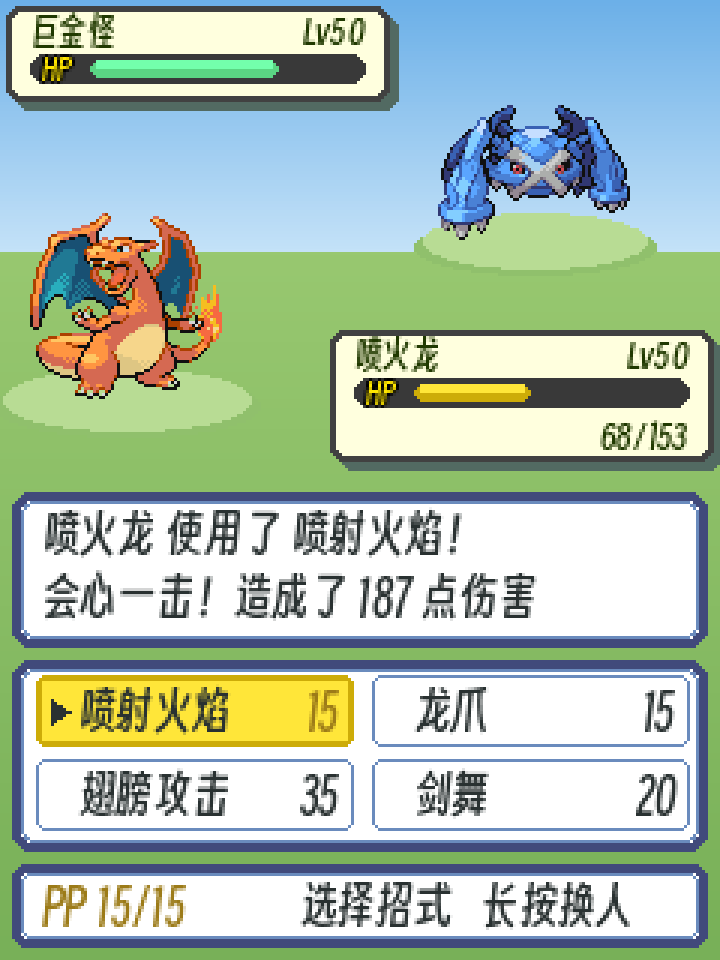
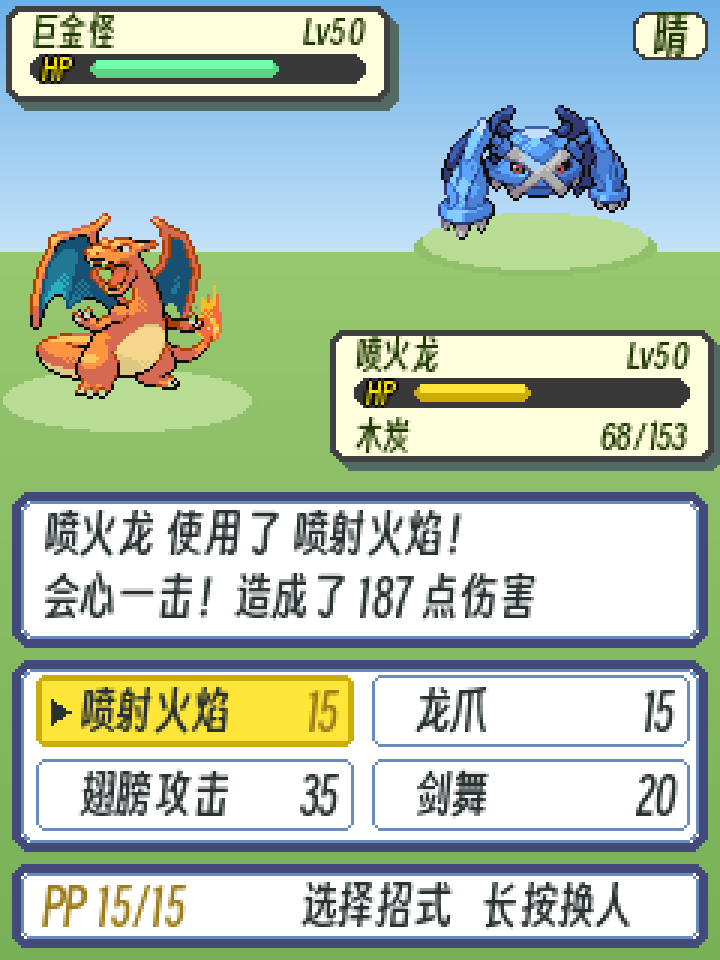
preview: PC 预览同步画天气胶囊与我方道具名，重出 hero.png
PC 预览（make_readme_images.py）跟随固件渲染层的新版式，补画右上角天气胶囊
与我方道具纯文字；据固件数据重出 docs/img/hero.png。

Changed region(s): [[0.8556, 0.0, 1.0, 0.0625], [0.4889, 0.4375, 0.5806, 0.4688]]

diff --git a/tools/make_readme_images.py b/tools/make_readme_images.py
@@ -446,6 +446,28 @@ def make_hero(f_ui, f_lvgl, f_hp, sprites, names, scale):
               names["charizard"], "Lv50", 0.44, hp_text="68/153",
               label_font=f_hp)
 
+    # ---- 我方携带道具（纯文字，无图标）：HP 数字行左侧 ----
+    # 与 src/poke_ui.c 同值：MY_ITEM_X = (SCREEN_W - 128 - HP_INSET) + 8 = 118，
+    # MY_ITEM_DY = NUM_ROW_DY = 28 → y = 110 + 28 = 138。与右对齐的 HP 数字不重叠。
+    f_ui.draw(img, SCREEN_W - 128 - HP_INSET + 8, 110 + NUM_ROW_DY, "木炭", HB_TEXT)
+
+    # ---- 天气胶囊（画面右上角、右对齐）----
+    WX_BADGE_Y, WX_BADGE_H = 4, 16
+    WX_BADGE_PAD_X, WX_BADGE_R, WX_BADGE_RIGHT = 6, 5, 4
+    wx_w = f_lvgl.measure("晴") + WX_BADGE_PAD_X * 2
+    wx_x = SCREEN_W - WX_BADGE_RIGHT - wx_w
+    d.rounded_rectangle([wx_x, WX_BADGE_Y,
+                         wx_x + wx_w - 1, WX_BADGE_Y + WX_BADGE_H - 1],
+                        radius=WX_BADGE_R, fill=HB_EDGE)
+    d.rounded_rectangle([wx_x + 1, WX_BADGE_Y + 1,
+                         wx_x + wx_w - 2, WX_BADGE_Y + WX_BADGE_H - 2],
+                        radius=WX_BADGE_R - 1, fill=HB_FILL)
+    # 文字竖直居中。注意 C 侧是 int 截断除法：(16-21)/2 = -2；Python 的 //
+    # 是下取整会得 -3，差 1px。所以必须用 int() 截断，不能写 //。
+    f_lvgl.draw(img, wx_x + WX_BADGE_PAD_X,
+                WX_BADGE_Y + int((WX_BADGE_H - f_lvgl.line_height) / 2),
+                "晴", HB_TEXT)
+
     # ---- 下半屏：对话框 + 招式菜单 + 状态行 ----
     # 日志框
     dialog(d, 4, 164, 232, 52)
@@ -590,6 +612,7 @@ def main():
     # 出自 tools/gen_font.py 的 UI_STRINGS。写错一个字就硬失败。
     hero_strings = [
         "巨金怪", "喷火龙", "Lv50", "HP", "68/153",
+        "木炭", "晴",
         "喷火龙 使用了 喷射火焰！", "会心一击！造成了 187 点伤害",
         "喷射火焰", "龙爪", "翅膀攻击", "剑舞",
         "15/15", "35/35", "20/20",
@@ -597,7 +620,8 @@ def main():
     ]
     # 血条框那句用 12px 那套校验，对话框用 16px，各自独立
     box_strings = [s for s in hero_strings
-                   if s in ("巨金怪", "喷火龙", "Lv50", "68/153", "HP")]
+                   if s in ("巨金怪", "喷火龙", "Lv50", "68/153", "HP",
+                            "木炭")]
     n_box = check_charset(f_ui, box_strings, "hero.png 血条框（12px）")
     check_charset(f_hp, ["HP"], "hero.png HP 标签（10px）")
     n_dlg = check_charset(f_lvgl, [s for s in hero_strings if s not in box_strings],
